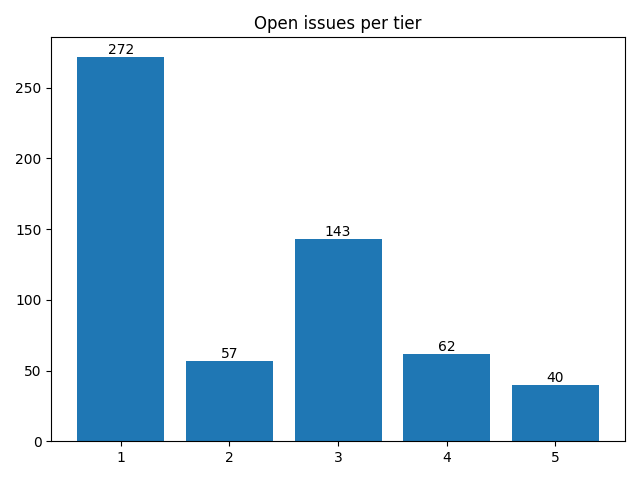
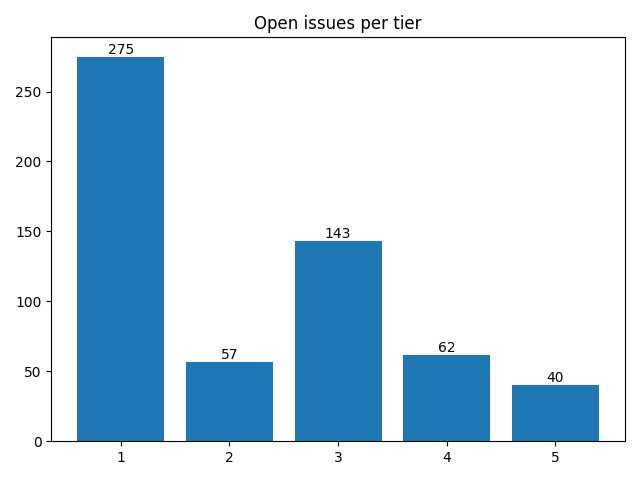
Apply automatic changes

diff --git a/docs/analytics.html b/docs/analytics.html
@@ -84,7 +84,7 @@ td .material-icons { display:inline-flex; vertical-align: top; font-size:1.1rem;
 						</tr>
 						<tr>
 							<td>Apr</td>
-							<td>1</td>
+							<td>4</td>
 							<td>0</td>
 						</tr>
 					</table>
@@ -105,7 +105,7 @@ td .material-icons { display:inline-flex; vertical-align: top; font-size:1.1rem;
 							<td>
 								<a href="http://github.com/notofonts/latin-greek-cyrillic/issues">latin-greek-cyrillic</a>
 							</td>
-							<td>154</td>
+							<td>155</td>
 						</tr>
 						<tr>
 							<td>
@@ -123,7 +123,7 @@ td .material-icons { display:inline-flex; vertical-align: top; font-size:1.1rem;
 							<td>
 								<a href="http://github.com/notofonts/arabic/issues">arabic</a>
 							</td>
-							<td>20</td>
+							<td>22</td>
 						</tr>
 						<tr>
 							<td>
@@ -245,11 +245,11 @@ td .material-icons { display:inline-flex; vertical-align: top; font-size:1.1rem;
 						<tr>
 							<td>1</td>
 							<td>
-									<a href="http://github.com/notofonts/latin-greek-cyrillic/issues">latin-greek-cyrillic</a>: 154, 
+									<a href="http://github.com/notofonts/latin-greek-cyrillic/issues">latin-greek-cyrillic</a>: 155, 
 
 									<a href="http://github.com/notofonts/nastaliq/issues">nastaliq</a>: 26, 
 
-									<a href="http://github.com/notofonts/arabic/issues">arabic</a>: 20, 
+									<a href="http://github.com/notofonts/arabic/issues">arabic</a>: 22, 
 
 									<a href="http://github.com/notofonts/hebrew/issues">hebrew</a>: 17, 
 